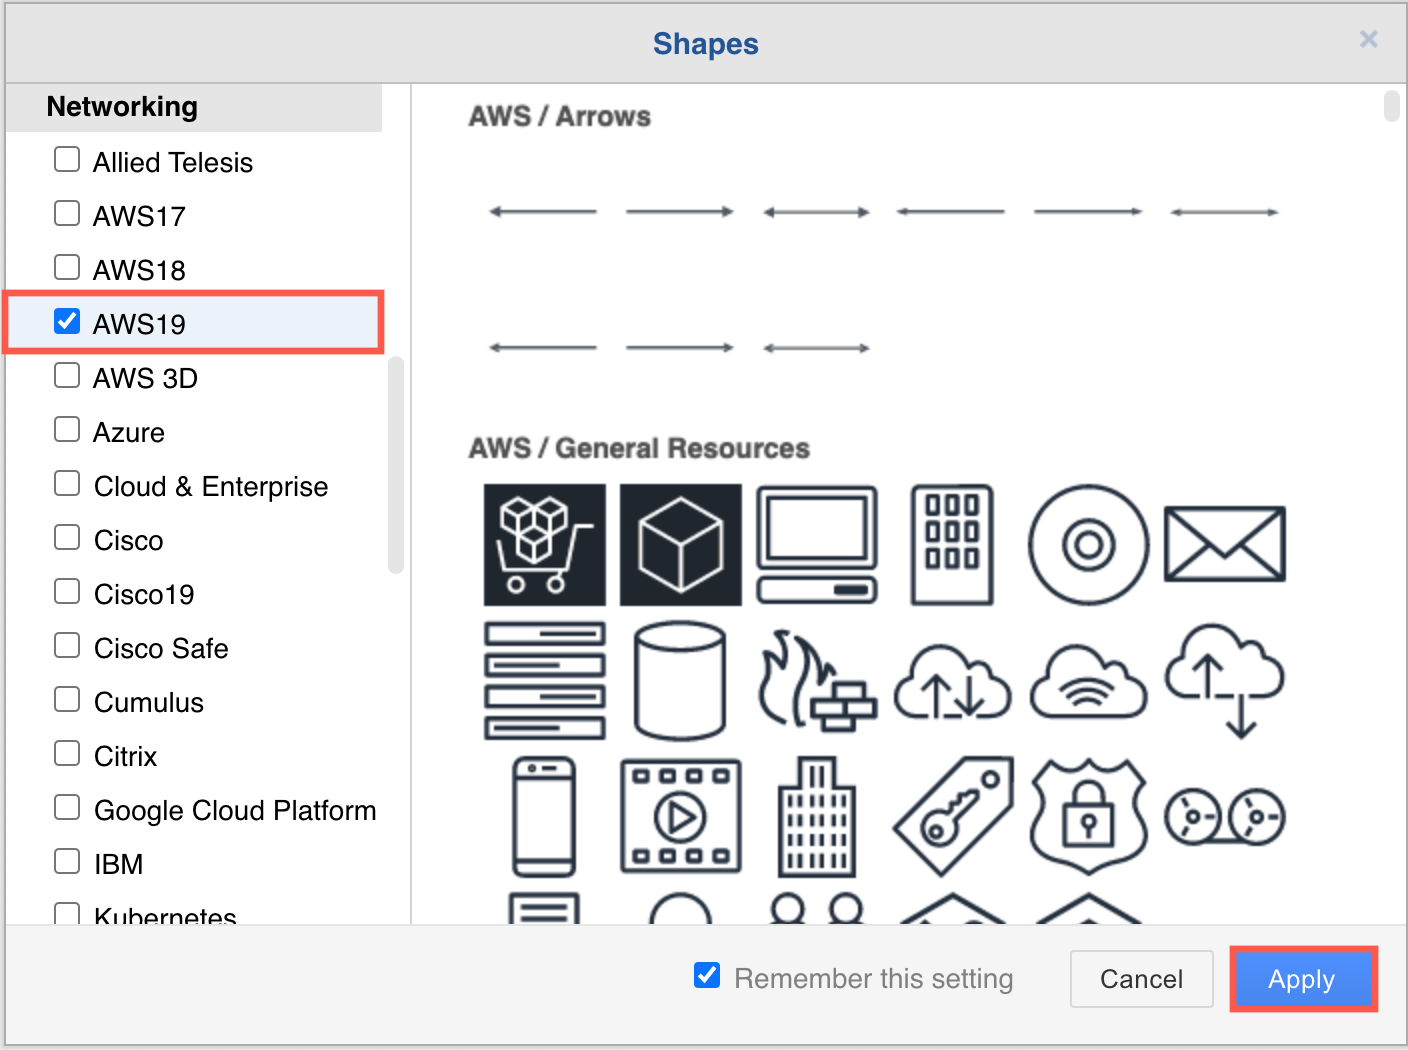
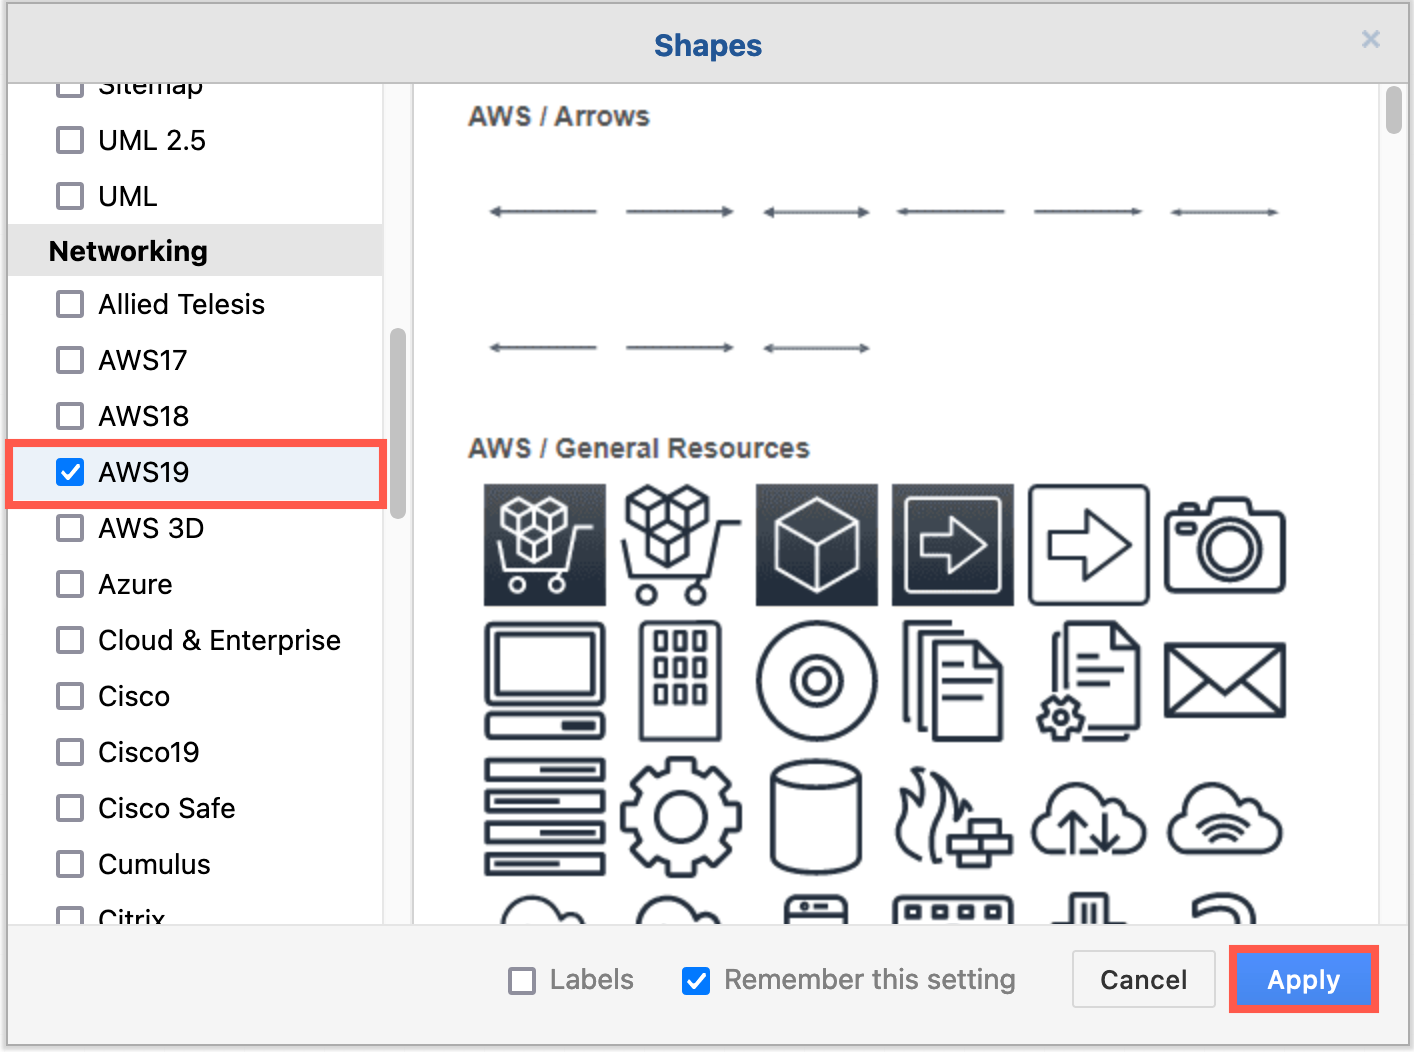
blog post

diff --git a/_posts/2022-03-04-gcp-aws-shapes-network-diagrams.md b/_posts/2022-03-04-gcp-aws-shapes-network-diagrams.md
@@ -1,0 +1,60 @@
+---
+layout: post
+author: diagrams.net
+slug: gcp-aws-shapes-network-diagrams
+date: 2022-03-04 09:54:00
+title: Updated shapes for GCP and AWS network diagrams
+tags: [features]
+categories: [use-cases, shapes]
+---
+
+You can [create network diagrams](/blog/network-diagrams.html) from scratch in diagrams.net using shapes that match the platform you are using - AWS, GCP, Veeam, Azure, Cisco, IBM and many more. Both the AWS19 and GCP Icon shape libraries for network and cloud architectures have been updated recently in diagrams.net and draw.io. 
+
+## Open the updated network shape libraries
+
+Both the Amazon Web Service and Google Cloud Platform shape libraries have been updated recently. Enable the shape libraries that you need to use in diagrams.net.
+
+1. Click on _More Shapes_ in the left-hand panel. 
+2. In the _Networking_ section, click on the checkboxes next to the libraries you want to enable, then click _Apply_.
+<br /><img src="/assets/img/blog/aws19-shape-library-enable.png" style="width=100%;max-width:300px;;height:auto;" alt="Enable the AWS19 shape library for Amazon Web Services infrastructure diagrams in diagrams.net">
+
+
+If you want to see the shape names even when you aren't hovering over a shape in the shape libraries, click on the _Labels_ checkbox in the shape library selection dialog.
+
+Hover over any shape in the shape libraries on the left of the drawing canvas to see a preview and its name. 
+<br /><img src="/assets/img/blog/aws-shape-library-hover.png" style="width=100%;max-width:300px;;height:auto;" alt="Hover over any shape to see a preview and its name in diagrams.net">
+
+Drag the shape library panel edge towards the drawing canvas to expand the panel and see more shapes.
+<br /><img src="/assets/img/blog/shapes-panel-expand.gif" style="width=100%;max-width:500px;;height:auto;" alt="Drag the edge of the shapes panel to make it larger">
+
+## Updated AWS19 network shapes
+
+Enabling the _AWS19_ shape library will give you a large number of sub-libraries in the left panel, sorted into logical categories. Expand the categories that you need by clicking on the sub-library's title or the arrow next to it.
+
+As you can see below, the AWS19 shape library for modelling cloud service architectures on Amazon's platform is large and varied.
+<br /><img src="/assets/img/blog/aws19-update2022.png" style="width=100%;max-width:650px;;height:auto;" alt="The AWS19 shape library for Amazon Web Services infrastructure diagrams has been updated in diagrams.net">
+
+[Create a new diagram with the AWS19 shape library already enabled](https://app.diagrams.net/?libs=aws4;basic)
+
+## Updated GCP Icons
+
+The large _Google Cloud Platform_ shape library containers older labels and icons, whereas the updated _GCP Icons_ are sorted into their own shape library. Click _More Shapes_ and enable the _GCP Icons_ library to see updated sub-libraries shown below.
+<br /><img src="/assets/img/blog/gcp-icons-update2022.png" style="width=100%;max-width:500px;height:auto;" alt="The GCP icons shape library for Google Cloud Platform infrastructure diagrams has been updated in diagrams.net">
+
+[Create a new diagram with the GCP Icons shape library already enabled](https://app.diagrams.net/?libs=gcp2;basic)
+
+## Related
+
+Some cloud visualisation platforms can output diagrams in the ``.drawio`` format, including [Cloudcraft](/blog/drawio-aws-cloudcraft.html) and [Cloudockit](/blog/cloudockit-to-drawio.html). 
+
+Embed the exported diagram in your system documentation or display it in your wiki with a [diagrams.net or draw.io-branded integration](/integrations.html).
+
+**Network diagram templates**
+
+diagrams.net includes many templates for common cloud infrastructures on several platforms. Select _Arrange > Insert > Template_ from the menu.
+<br /><img src="/assets/img/blog/templates-network-diagrams.png" style="width=100%;max-width:500px;height:auto;" alt="Network diagrams in the templates at diagrams.net">
+
+* [Learn about infrastructure diagrams](/blog/network-diagrams.html)
+* [Use the Veeam shape library for your network diagram](/blog/veeam-stencils.html)
+* [Draw an abstract C4 model to define a network architecture](/blog/c4-modelling.html)
+* [Model your physical rack layouts in diagrams.net](/blog/rack-diagrams.html)

diff --git a/_posts/2020-09-03-aws-diagrams.md b/_posts/2020-09-03-aws-diagrams.md
@@ -22,7 +22,7 @@ diagrams.net provides you with several years worth of AWS icon (shape) libraries
 
 There are many AWS shapes available to visualise your infrastructure. When you enable just one of the shape libraries above, you'll see a number of sub-categories of shapes appear in the left panel.
 
-<img src="/assets/img/blog/aws2019-shapes.png" style="max-width:100%;height:auto;" alt="Some of the AWS shapes available in diagrams.net">
+<img src="/assets/img/blog/aws19-update2022.png" style="max-width:100%;height:auto;" alt="Some of the AWS shapes available in diagrams.net">
 
 ## Use an AWS template
 
@@ -61,7 +61,7 @@ Drag and drop shapes from the shape libraries to the drawing canvas. Click on sh
 
 Hover over a shape in the shape library to see a tooltip that tells you what it represents in AWS notation.
 
-<img src="/assets/img/blog/aws-shape-library-hover.png" style="width=100%;max-width:200px;height:auto;" alt="Hover over shapes in the AWS shape library in diagrams.net to see their function">
+<img src="/assets/img/blog/aws-shape-library-hover.png" style="width=100%;max-width:300px;height:auto;" alt="Hover over shapes in the AWS shape library in diagrams.net to see their function">
 
 **Reposition:** Click and drag a shape into a new position on the drawing canvas.
 

diff --git a/_posts/2019-02-27-drawio-aws-cloudcraft.md b/_posts/2019-02-27-drawio-aws-cloudcraft.md
@@ -44,7 +44,7 @@ First, enable the AWS libraries. Click _More Shapes_ at the bottom of the left p
 
 There are many AWS shapes available to visualise your AWS infrastructure. When you enable just one of the shape libraries above, you'll see a number of sub-categories of shapes appear in the left panel.
 
-<img src="/assets/img/blog/aws2019-shapes.png" style="max-width:100%;height:auto;" alt="Some of the AWS shapes available in diagrams.net">
+<img src="/assets/img/blog/aws19-update2022.png" style="max-width:100%;height:auto;" alt="Some of the AWS shapes available in diagrams.net">
 
 ### Replace shapes
 
